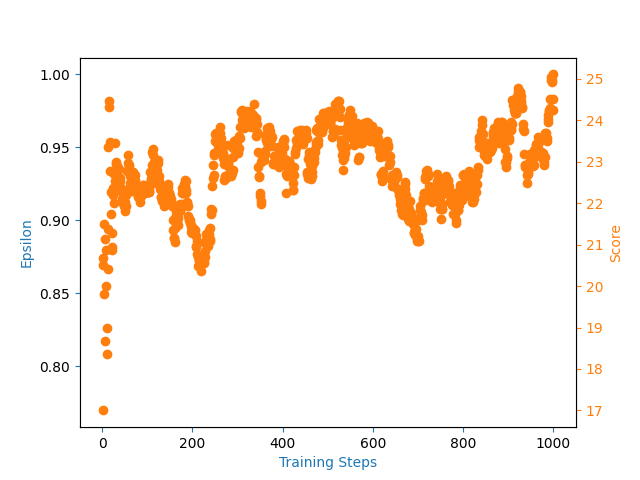
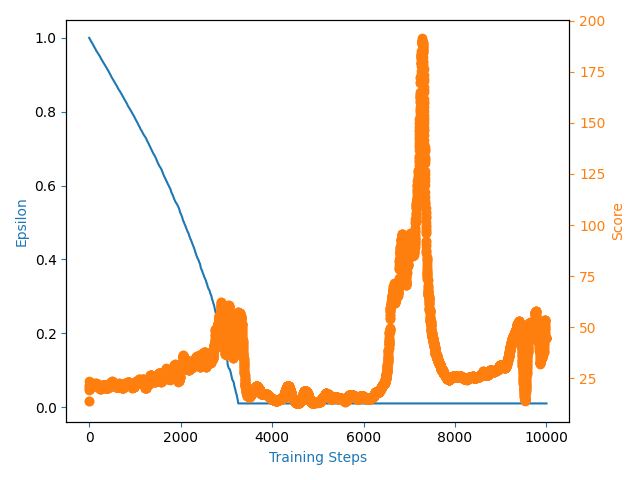
fixed some bugs and linting issues

Changed region(s): [[0.0, 0.0312, 0.9688, 1.0], [0.1562, 0.6562, 0.1875, 0.75]]

diff --git a/utils/utils.py b/utils/utils.py
@@ -11,26 +11,28 @@ def plot_learning_curve(x, scores, epsilons, filename):
     """
     Plot
     """
-    fig = plt.figure()
-    ax = fig.add_subplot(111, label="1")
-    ax2 = fig.add_subplot(111, label="2")
+    fig, ax1 = plt.subplots()
 
-    ax.plot(x, epsilons, color="C0")
-    ax.set_xlabel("Training Steps", color="C0")
-    ax.set_ylabel("Epsilon", color="C0")
-    ax.tick_params(axis="x", color="C0")
-    ax.tick_params(axis="y", color="C0")
+    ax1.plot(x, epsilons, color="C0")
+    ax1.set_xlabel("Training Steps", color="C0")
+    ax1.set_ylabel("Epsilon", color="C0")
+    ax1.tick_params(axis="x", color="C0")
+    ax1.tick_params(axis="y", color="C0")
+
+    ax2 = ax1.twinx()
 
     N = len(scores)
+
     running_avg = np.empty(N)
     for t in range(N):
         running_avg[t] = np.mean(scores[max(0, t-100):(t+1)])
 
     ax2.scatter(x, running_avg, color="C1")
     ax2.axes.get_xaxis().set_visible(False)
-    ax2.yaxis.tick_right()
     ax2.set_ylabel("Score", color="C1")
-    ax2.yaxis.set_label_position('right')
     ax2.tick_params(axis='y', colors="C1")
 
+    fig.tight_layout()
+
     plt.savefig(filename)
+

diff --git a/open_ai_gym/cartpole/naive_dqn/dqn_agent.py b/open_ai_gym/cartpole/naive_dqn/dqn_agent.py
@@ -107,8 +107,9 @@ def run_dqn_training():
     """
     Trainig environemt
     """
+    # pylint: disable=too-many-locals
     env = gym.make('CartPole-v1')
-    n_games = 1000
+    n_games = 10000
     scores = []
     eps_history = []
 
